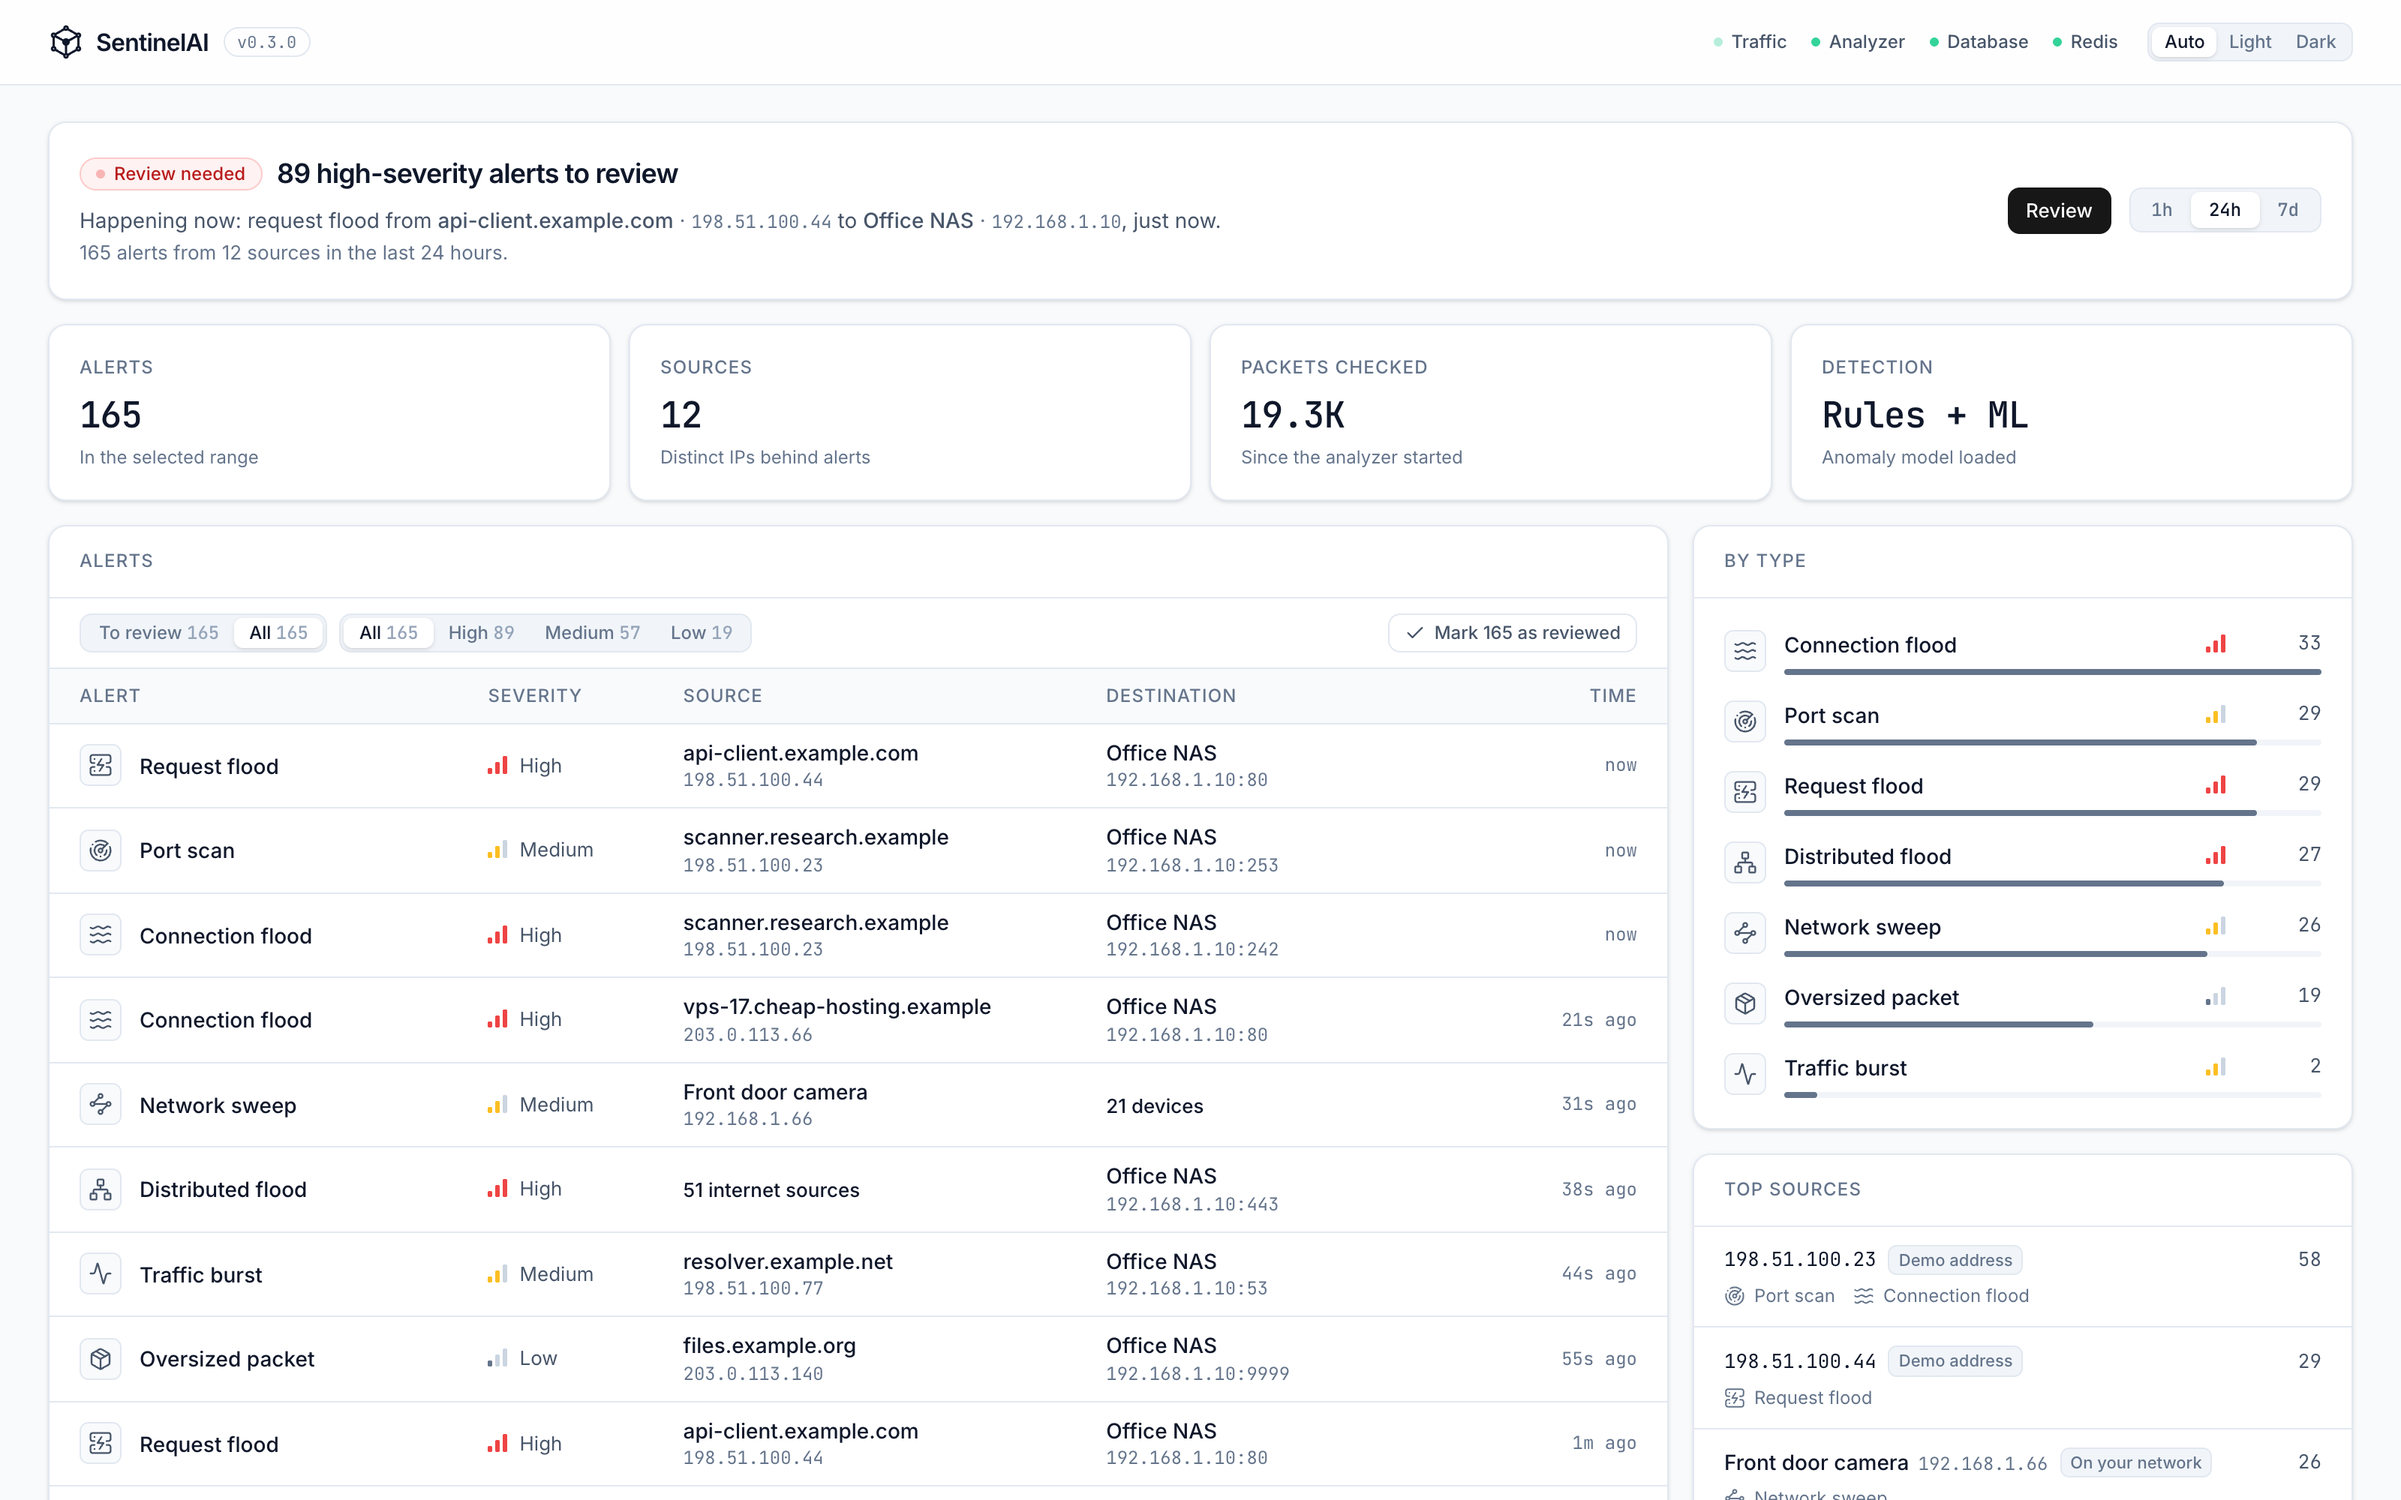
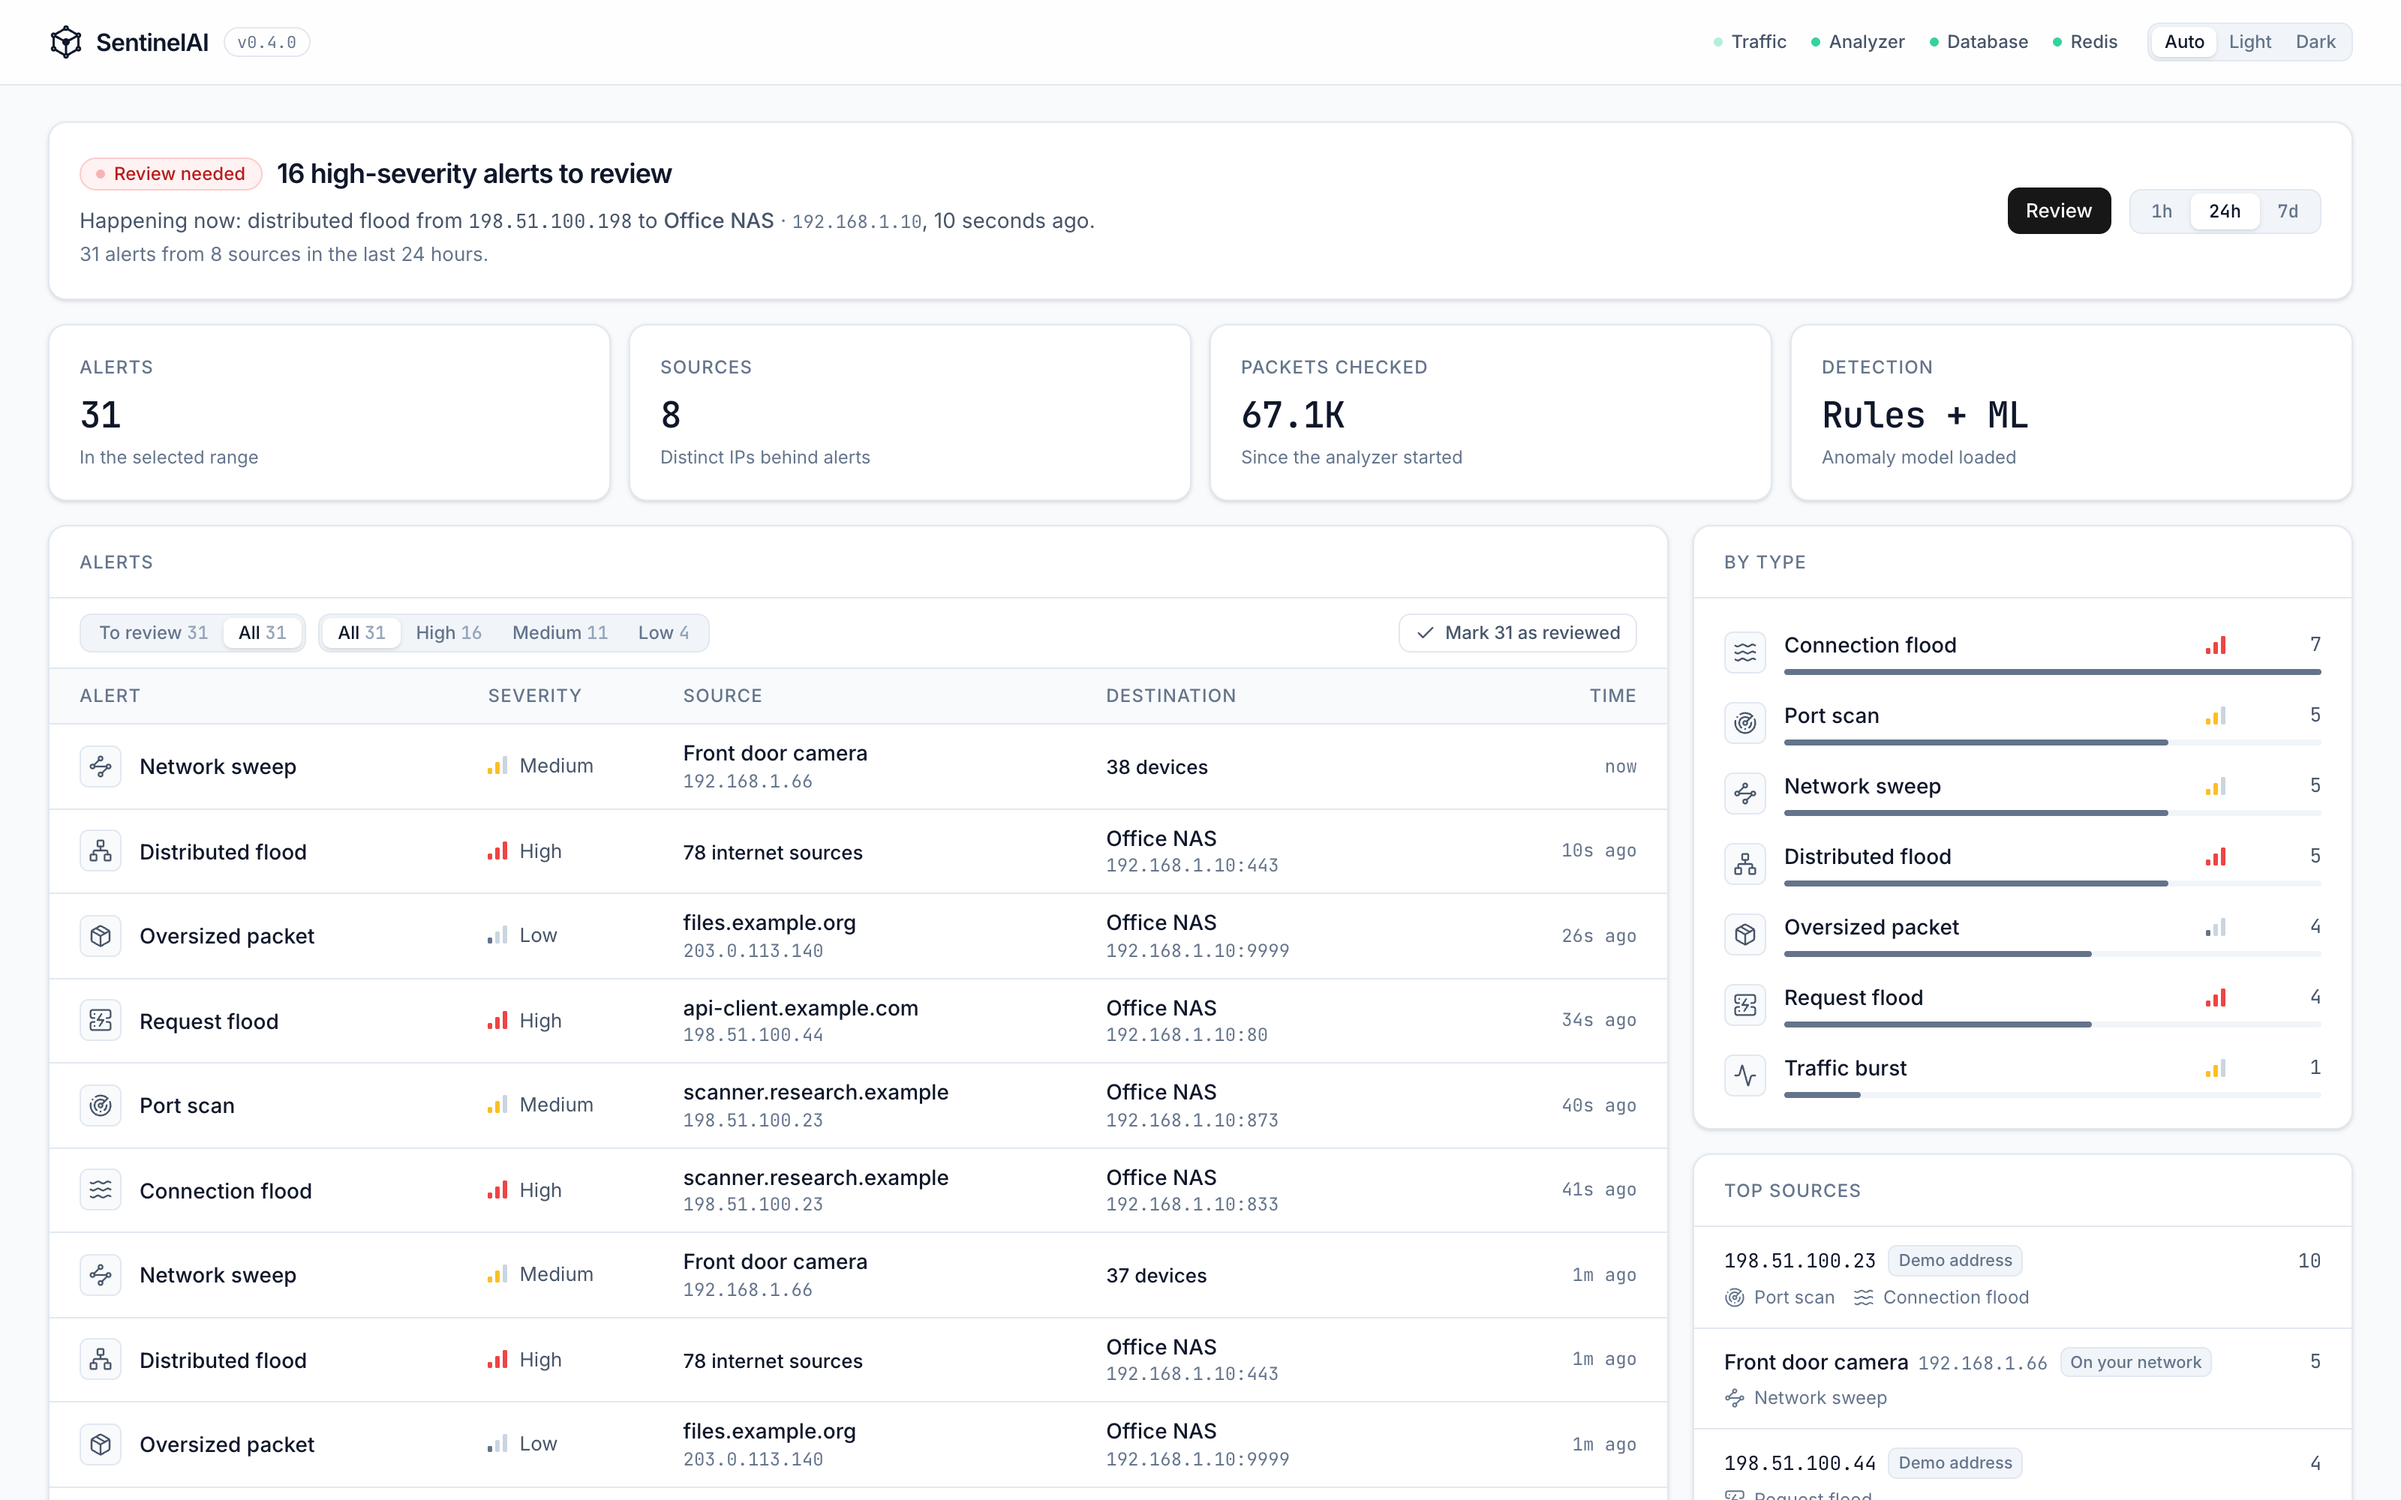
Release 0.4.0 (#11)

diff --git a/website/data/site.ts b/website/data/site.ts
@@ -12,7 +12,7 @@
 
 export const site = {
   name: "SentinelAI",
-  version: "0.3.0",
+  version: "0.4.0",
   repo: "https://github.com/smngvlkz/sentinel",
   evaluationDoc: "https://github.com/smngvlkz/sentinel/blob/master/docs/evaluation.md",
   roadmapDoc: "https://github.com/smngvlkz/sentinel/blob/master/docs/ROADMAP.md",
@@ -103,7 +103,7 @@ export const resultNotes: string[] = [
   "An earlier version of these results had a scoring bug, found by the held-out Wednesday test. The numbers here are the corrected ones.",
 ];
 
-export type FeatureIcon = "radar" | "message" | "tag" | "check" | "shuffle" | "lock" | "play";
+export type FeatureIcon = "radar" | "message" | "tag" | "check" | "shuffle" | "gauge" | "lock" | "play";
 
 export type Feature = { tag: string; icon: FeatureIcon; title: string; body: string; points?: string[] };
 
@@ -150,6 +150,17 @@ export const features: Feature[] = [
     body: "An Isolation Forest trained on your own network's normal traffic flags what doesn't fit. It's off until you train it, and its alerts are never rated high.",
   },
   {
+    tag: "Resilience",
+    icon: "gauge",
+    title: "Holds up under a flood",
+    body: "Everything SentinelAI keeps in memory has a hard limit, so a flood from made-up addresses can't use up your machine. Ten million spoofed connections leave it flat at about 410 MB.",
+    points: [
+      "Connections seen more than once are protected, so a flood has a much harder time pushing a slow scan out of memory before it's caught",
+      "A Memory limit reached alert if a flood ever gets that far",
+      "/health shows how full each table is, how far behind the analyzer is, and any packets lost",
+    ],
+  },
+  {
     tag: "Privacy",
     icon: "lock",
     title: "Private by design",
@@ -163,12 +174,17 @@ export const features: Feature[] = [
   },
 ];
 
-export type NextIcon = "cpu" | "bell" | "sparkles";
+export type NextIcon = "disk" | "cpu" | "bell" | "sparkles";
 
 export type NextItem = { icon: NextIcon; title: string; body: string };
 
 // Planned, not built. Details and "done" criteria are in docs/ROADMAP.md.
 export const next: NextItem[] = [
+  {
+    icon: "disk",
+    title: "Old alerts cleaned up",
+    body: "Alerts older than a set age, 90 days by default, deleted automatically, with a cap on the total as a backstop, so the database can't fill your disk.",
+  },
   {
     icon: "cpu",
     title: "Raspberry Pi installer",
@@ -200,6 +216,10 @@ export const limits: Limit[] = [
   {
     title: "It misses slow attacks and anything inside the payload",
     body: "Slowloris sends almost no traffic, by design, and was missed completely. Heartbleed lives inside encrypted traffic, which SentinelAI doesn't read. Both were 0% in testing.",
+  },
+  {
+    title: "It keeps every alert, for now",
+    body: "Old alerts aren't deleted yet, so on an install that runs for months the database keeps growing. Deleting old alerts automatically is the next thing on the roadmap.",
   },
   {
     title: "It detects, it doesn't block",

diff --git a/website/components/WhatsNext.vue b/website/components/WhatsNext.vue
@@ -1,8 +1,8 @@
 <script setup lang="ts">
-import { BellRing, Cpu, Sparkles } from "lucide-vue-next";
+import { BellRing, Cpu, HardDrive, Sparkles } from "lucide-vue-next";
 import { next, site, type NextIcon } from "~/data/site";
 
-const icons: Record<NextIcon, unknown> = { cpu: Cpu, bell: BellRing, sparkles: Sparkles };
+const icons: Record<NextIcon, unknown> = { disk: HardDrive, cpu: Cpu, bell: BellRing, sparkles: Sparkles };
 </script>
 
 <template>
@@ -13,7 +13,7 @@ const icons: Record<NextIcon, unknown> = { cpu: Cpu, bell: BellRing, sparkles: S
         title="Planned, not built yet."
         lead="None of this exists today. Each has a written plan, with what it must do before it ships."
       />
-      <div class="mt-12 grid gap-px overflow-hidden rounded-xl border border-line bg-line md:grid-cols-3">
+      <div class="mt-12 grid gap-px overflow-hidden rounded-xl border border-line bg-line md:grid-cols-2 lg:grid-cols-4">
         <article v-for="n in next" :key="n.title" class="bg-bg p-6 transition-colors duration-200 hover:bg-bg-3">
           <div class="flex items-center justify-between gap-3">
             <component :is="icons[n.icon]" class="size-5 text-fg-3" :stroke-width="1.5" aria-hidden="true" />

diff --git a/website/components/LimitsSection.vue b/website/components/LimitsSection.vue
@@ -11,7 +11,7 @@ import { limits } from "~/data/site";
           :title="'Know the blind spots\nbefore you rely on it.'"
         />
         <div class="lift mt-12 grid gap-px overflow-hidden rounded-xl border border-line bg-line sm:grid-cols-2">
-          <div v-for="l in limits" :key="l.title" class="bg-bg p-6 transition-colors duration-200 hover:bg-bg-3">
+          <div v-for="l in limits" :key="l.title" class="bg-bg p-6 transition-colors duration-200 hover:bg-bg-3 sm:last:odd:col-span-2">
             <h3 class="font-medium text-fg">{{ l.title }}</h3>
             <p class="mt-2 text-body text-fg-2">{{ l.body }}</p>
           </div>

diff --git a/website/components/FeatureList.vue b/website/components/FeatureList.vue
@@ -1,5 +1,5 @@
 <script setup lang="ts">
-import { CheckCheck, CirclePlay, Lock, MessageSquareText, Radar, Shuffle, Tag } from "lucide-vue-next";
+import { CheckCheck, CirclePlay, Gauge, Lock, MessageSquareText, Radar, Shuffle, Tag } from "lucide-vue-next";
 import { features, type FeatureIcon } from "~/data/site";
 
 // Same icon set as the dashboard (lucide); Shuffle is its "Unusual traffic" icon.
@@ -9,6 +9,7 @@ const icons: Record<FeatureIcon, unknown> = {
   message: MessageSquareText,
   check: CheckCheck,
   shuffle: Shuffle,
+  gauge: Gauge,
   lock: Lock,
   play: CirclePlay,
 };

diff --git a/dashboard-api/main.py b/dashboard-api/main.py
@@ -29,7 +29,7 @@ load_dotenv()
 
 log = logging.getLogger(__name__)
 
-VERSION = "0.3.0"
+VERSION = "0.4.0"
 
 STREAM_NAME = "packet_stream"
 HEARTBEAT_KEY = "sentinel:analyzer:heartbeat"

diff --git a/CHANGELOG.md b/CHANGELOG.md
@@ -6,20 +6,24 @@ uses [Semantic Versioning](https://semver.org/).
 
 ## [Unreleased]
 
+## [0.4.0] - 2026-10-03
+
 ### Added
 
 - Hard limits on everything the analyzer keeps in memory, under `[limits]`
-  in `config/detection.toml`. Before, a flood from a million made-up source
-  addresses in one minute grew the analyzer by 3.5 GB and the cleanup
-  afterwards froze it for 20 seconds. Now ten million such connections
-  leave its memory flat at about 410 MB and no packet waits more than about
-  15 ms. The defaults sit far above anything real traffic has reached, so
+  in `config/detection.toml`. Measured in the analyzer's Docker image under
+  a flood of 20,000 connections a second from unique made-up addresses:
+  0.3.0 grew by about 9.4 GB per million connections and never levelled off
+  (on an 8 GB machine it was killed before reaching a million), with single
+  packets held up for up to 673 ms. Now ten million such connections leave
+  its memory flat at about 410 MB, and no packet waits more than about 15
+  ms. The defaults sit far above anything real traffic has reached, so
   detection is unchanged: the CIC-IDS2017 Friday, Wednesday and Monday
   replays give exactly the published results.
 - Entries seen more than once are protected from floods of one-off entries,
-  so a flood of made-up addresses can't push a slow port scan out of memory
-  before it's caught. Under 20,000 made-up connections a second, a scan
-  probing one port every 5 seconds is now caught (it was missed). It has
+  so the limits don't let a flood of made-up addresses push a slow port scan
+  out of memory before it's caught: under 20,000 made-up connections a
+  second, a scan probing one port every 5 seconds is still caught. It has
   limits: that flood still hides a scan probing every 10 seconds, and a
   flood of 50,000 a second hides one probing every 5.
 - A "Memory limit reached" alert (`RESOURCE_PRESSURE`, high severity, at
@@ -38,7 +42,8 @@ uses [Semantic Versioning](https://semver.org/).
 
 - Cleanup only looks at entries that have expired instead of every entry,
   and the analyzer skips Python's full garbage collections apart from one an
-  hour; together they removed pauses of up to 200 ms under load.
+  hour. Under a flood, 0.3.0 paused for up to 673 ms; 0.4.0 stays under
+  15 ms.
 
 ### Fixed
 
@@ -54,6 +59,19 @@ uses [Semantic Versioning](https://semver.org/).
   starts (only ones untouched for over a minute, so a second analyzer's
   in-flight work is left alone). They aren't reprocessed: the flow state
   they belonged to went with the old run.
+
+### Known limitations
+
+- Alerts are still never deleted, so the database keeps growing on a
+  long-running install. Deleting old alerts comes in 0.5.0.
+- A fast enough flood of made-up addresses can still hide a slow scan: one
+  probing every 10 seconds under 20,000 made-up connections a second, or
+  every 5 under 50,000. Reaching that point raises the "Memory limit
+  reached" alert.
+- Packets dropped by the kernel before capture sees them aren't reported
+  yet; that comes with the capture rework in roadmap 1.4.
+- The garbage-collector change only helps on Python 3.12, which the analyzer
+  image uses; Python 3.14's collector works differently.
 
 ## [0.3.0] - 2026-10-03
 
@@ -183,7 +201,8 @@ First public release.
 - Evaluation against CIC-IDS2017, with results in
   [docs/evaluation.md](docs/evaluation.md).
 
-[Unreleased]: https://github.com/smngvlkz/sentinel/compare/v0.3.0...HEAD
+[Unreleased]: https://github.com/smngvlkz/sentinel/compare/v0.4.0...HEAD
+[0.4.0]: https://github.com/smngvlkz/sentinel/compare/v0.3.0...v0.4.0
 [0.3.0]: https://github.com/smngvlkz/sentinel/compare/v0.2.0...v0.3.0
 [0.2.0]: https://github.com/smngvlkz/sentinel/compare/v0.1.0...v0.2.0
 [0.1.0]: https://github.com/smngvlkz/sentinel/releases/tag/v0.1.0

diff --git a/docs/ROADMAP.md b/docs/ROADMAP.md
@@ -36,7 +36,7 @@ easy to roll back.
 | Release | Step | Story |
 |---------|------|-------|
 | 0.1.0 to 0.3.0 | | Shipped: detection, held-out evaluation, hostnames on alerts |
-| 0.4.0 | 1.1 | Memory stays bounded, even under attack. Alerts are still never deleted, so the database keeps growing |
+| 0.4.0 | 1.1 | Shipped: memory stays bounded, even under attack. Alerts are still never deleted, so the database keeps growing |
 | 0.5.0 | 1.2 | Data retention: disk stays bounded too. From here it can run unattended |
 | 0.6.0 | 1.3 | Authentication |
 | 0.7.0 | 1.4 | Seeing the whole network, including running on a Raspberry Pi |
